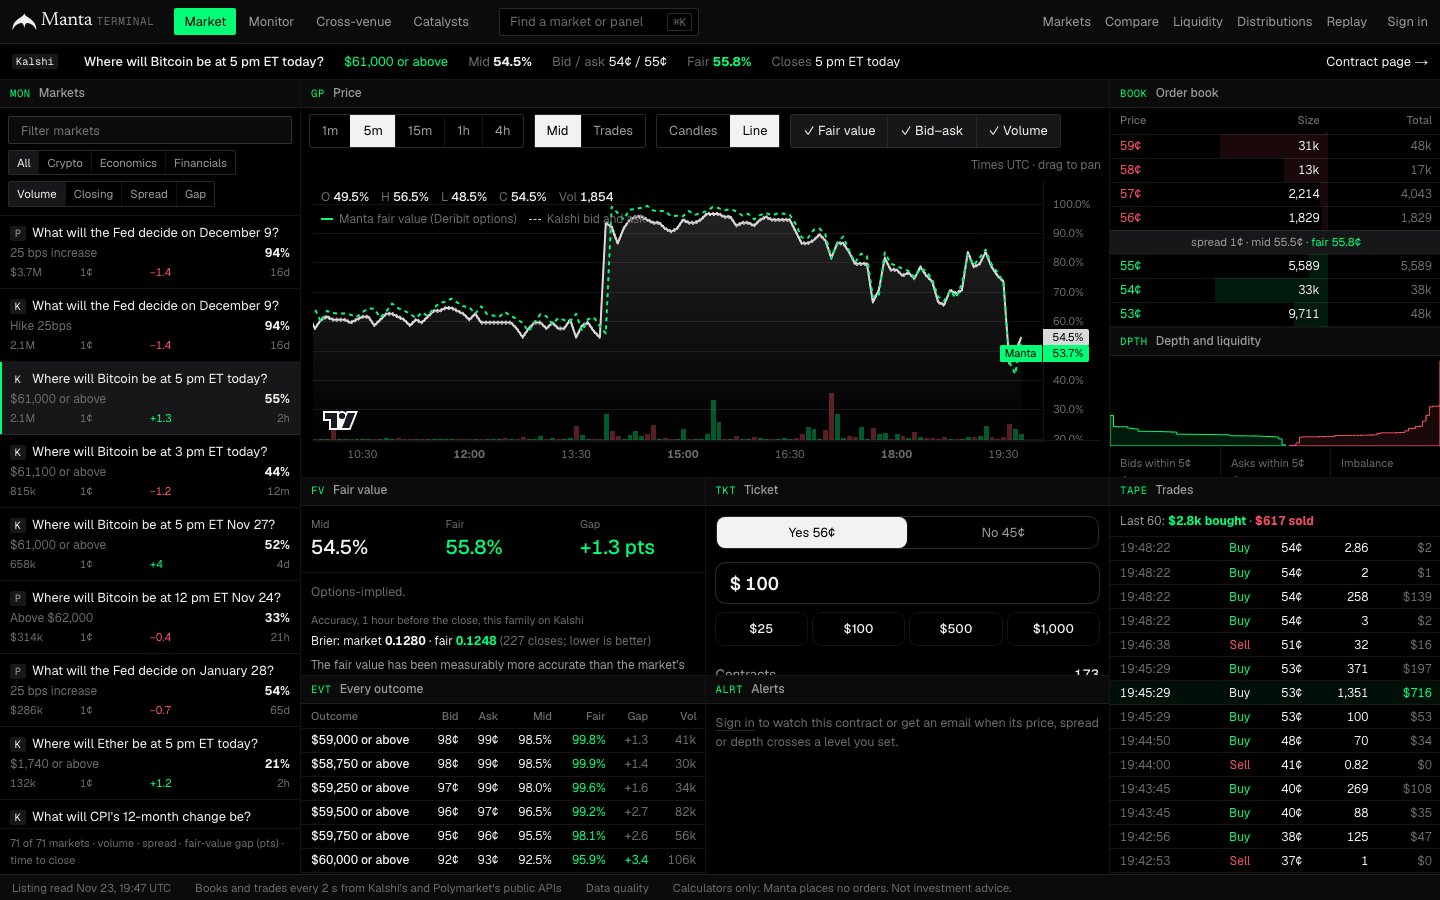
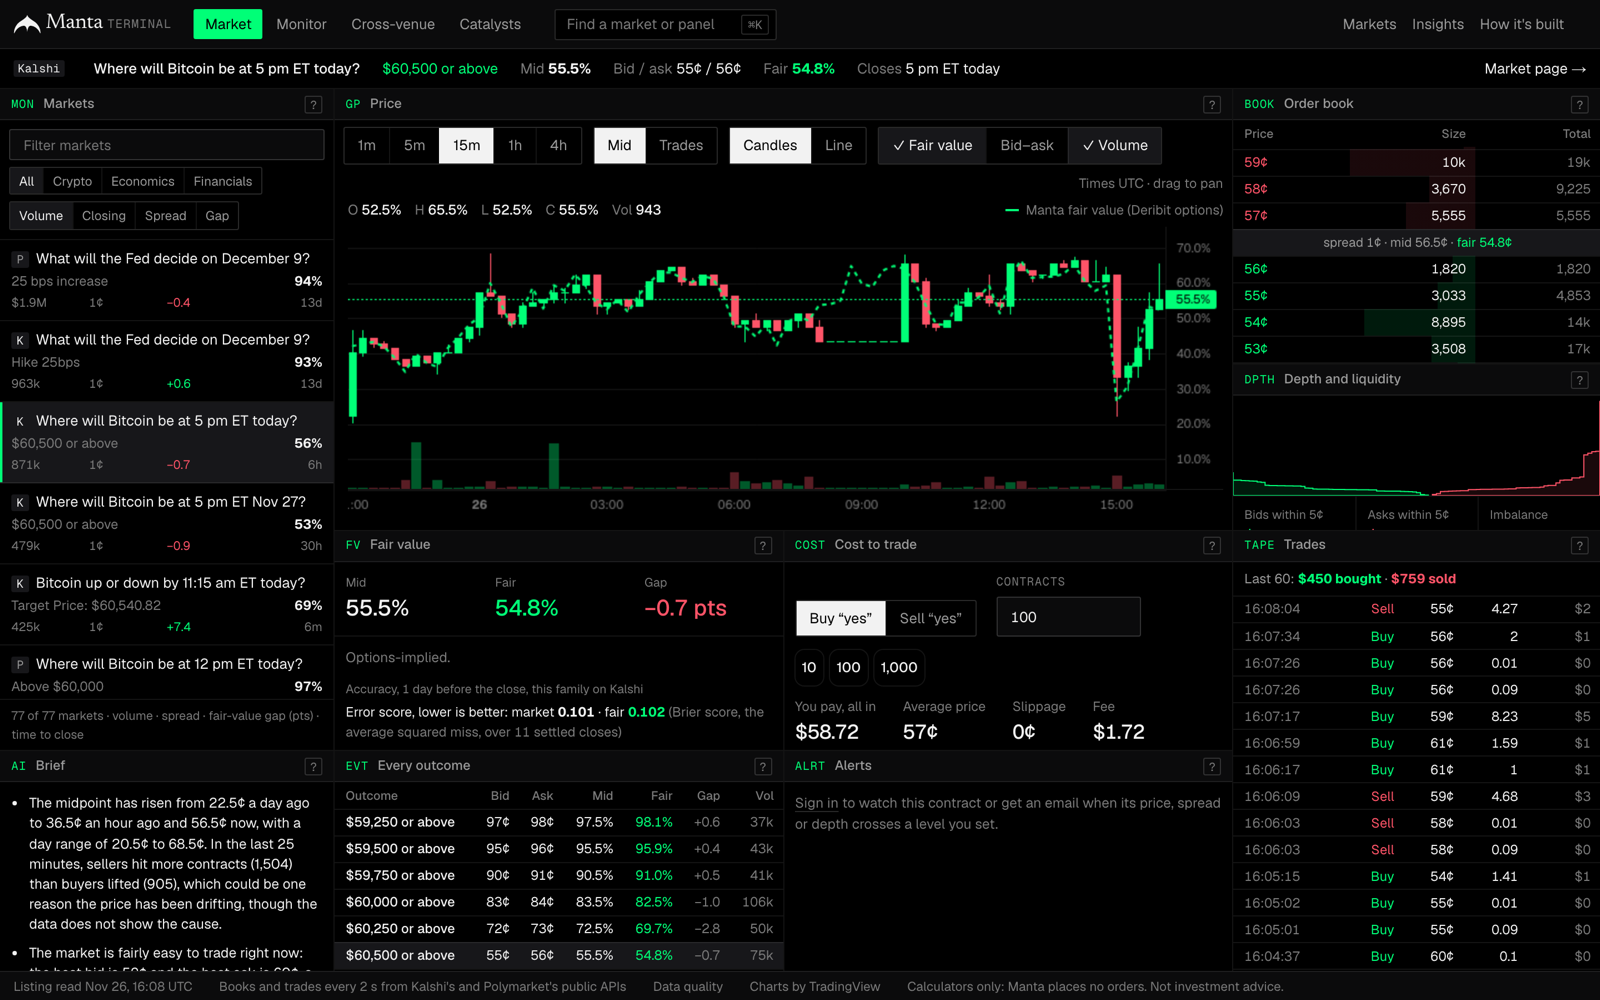
README: the six-page site, new screenshots, measured numbers and what worked and what did not; Markets shows 397k, not 397.0k

diff --git a/site/app/(site)/markets/page.tsx b/site/app/(site)/markets/page.tsx
@@ -155,9 +155,11 @@ async function Markets({ searchParams }: { searchParams: Promise<Params> }) {
 /** Cents with at most one decimal: 0.42 → "42¢", 0.918 → "91.8¢". */
 const cents = (p: number | null) => (p === null ? "–" : `${Math.round(p * 1000) / 10}¢`);
 
-/** 1,234 → "1.2k", 2,500,000 → "2.5M". */
-const short = (n: number) =>
-  n >= 1e6 ? `${(n / 1e6).toFixed(1)}M` : n >= 1e3 ? `${(n / 1e3).toFixed(1)}k` : String(Math.round(n));
+/** 1,234 → "1.2k", 25,000 → "25k", 397,040 → "397k", 2,500,000 → "2.5M". */
+const short = (n: number) => {
+  const [v, unit] = n >= 999_500 ? [n / 1e6, "M"] : n >= 999.5 ? [n / 1e3, "k"] : [n, ""];
+  return `${v >= 100 || unit === "" ? Math.round(v) : Number(v.toFixed(1))}${unit}`;
+};
 
 /** Fair value minus the midpoint, in cents: positive when fair value is above it. None for
  * one-venue consensus, which is fitted to the very quotes it would be compared with. */

diff --git a/README.md b/README.md
@@ -23,41 +23,64 @@
 </p>
 
 Manta covers the crypto, economics and financial contracts on Kalshi and Polymarket (never sports)
-and gives you the tools to work with them: a screener, live order books and trades, the same
-question compared across venues, what a trade really costs after fees, implied distributions,
-history and replay, and alerts.
+and gives you the tools to work with them: live order books and trades, charts from Manta's own
+recordings, what a trade really costs after fees, the same question compared across venues, and
+alerts. It is read-only: Manta places no orders.
 
 <p align="center">
-  <a href="https://mantamarkets.com/terminal"><img src="docs/images/terminal.png" alt="The Manta terminal: market monitor, price chart, order book, depth, trade ticket and trade tape for one Kalshi Bitcoin contract" width="100%"></a>
+  <a href="https://mantamarkets.com/terminal"><img src="docs/images/terminal.png" alt="The Manta terminal: market list, price chart with fair value, order book, depth, cost to trade, trades and every outcome for one Kalshi Bitcoin question" width="100%"></a>
 </p>
 
 **Built on [NautilusTrader](https://github.com/nautechsystems/nautilus_trader)** (LGPL-3.0), used
 as an installed library for the history catalog and backtesting. Manta's own code is the recorder,
 the pricing and analytics, the site and the measurement.
 
-## What it does
+## The site
 
-- **Terminal** (`/terminal`): market monitor, chart, order book and depth, trade tape and a trade
-  ticket in preset layouts, with a ⌘K command bar.
-- **Screener and event pages** (`/screener`, `/m/<venue>/<event>`): every covered contract,
-  filterable; each event with its order books, candles, trades and plain-English settlement rules.
-- **Compare** (`/compare`): the same question on Kalshi and Polymarket side by side, and where the
-  prices cross after both venues' fees.
-- **Cost to trade** (on contract pages): the average price, slippage and fee of buying or selling
-  N contracts, walked through the live book. **Liquidity** (`/liquidity`): depth and spreads over
-  time.
-- **Distributions** (`/distributions`): each ladder of strikes read as the market's probability
-  distribution and term structure.
-- **Fair value**: a price per contract from Deribit's options (Bitcoin, Ether) or the venues' own
-  books, always labelled with its method; its track record is on the accuracy page (`/stats`).
-- **Replay** (`/replay`): past closes minute by minute, from Manta's own recordings (Kalshi does
-  not publish historical order books).
-- **Data quality** (`/quality`): what the recorder captured, per venue, and every gap.
-- **Accounts**: watchlists and email alerts.
+- **Markets** (`/markets`): every open question, busiest first; each opens to its outcomes with
+  price, spread, size, volume and the gap to fair value.
+- **Market page** (`/m/<venue>/<event>`): one question's chart, order book, depth, trades, cost to
+  trade, fair value, every outcome and a short written brief.
+- **Terminal** (`/terminal`): the same panels in one live workspace, Kalshi books and trades
+  streamed from the recorder, with a ⌘K command bar.
+- **Insights** (`/insights`): when trading is cheapest, which price bands the market gets wrong,
+  and whether crossing between venues pays after fees.
+- **How it's built** (`/how-its-built`): the system, its measured numbers and every recording gap.
+- **Accounts**: watchlists, email alerts and an API of Manta's analytics (`/docs/api`).
 
-| Screener | Distributions |
+| Markets | Market page |
 |---|---|
-| <a href="https://mantamarkets.com/screener"><img src="docs/images/screener.png" alt="Screener: every covered contract with chance, bid, ask, fair value, spread, volume and time to close"></a> | <a href="https://mantamarkets.com/distributions"><img src="docs/images/distributions.png" alt="Distributions: a Bitcoin strike ladder read as the market's probability distribution, with median and implied volatility"></a> |
+| <a href="https://mantamarkets.com/markets"><img src="docs/images/markets.png" alt="Markets: open questions busiest first, one opened to its five outcomes with price, spread, size, volume and gap to fair value"></a> | <a href="https://mantamarkets.com/markets"><img src="docs/images/market.png" alt="Market page: a Bitcoin question's chance, price chart with fair value, cost to trade 100 contracts and fair value with its accuracy"></a> |
+
+## Numbers
+
+Measured, with their dates. The live figures are on [How it's built](https://mantamarkets.com/how-its-built).
+
+- **3.54 billion** venue messages recorded from 2026-11-12 to 2026-11-26, from six venues.
+- **Coverage 99.48% to 99.997%** per venue over that time (the share of time not inside a
+  recording gap); Deribit is the lowest.
+- **0 book mismatches** in 5.6 million rebuilt order-book updates, checked against the venue
+  (2026-11-13).
+- **93 ms** median from a Kalshi message reaching the recorder to the terminal receiving it
+  (2026-11-23).
+- **187 tests**: 66 Go, 57 Python, 64 site (2026-11-26).
+
+## What worked and what did not
+
+- Worked: the recorder. It has run since 2026-11-12, every gap is logged and shown, and it is the
+  only source of Kalshi order-book history (Kalshi does not publish one). Charts, replay and the
+  terminal's live stream all come from it.
+- Did not: fair value as an edge. Priced from Deribit's options, it is **no more accurate than
+  Kalshi's own midpoint**: Brier score (average squared miss, lower is better) 0.1322 vs 0.1297
+  five minutes before the close, 0.0989 vs 0.0967 one day before. So the site shows it as a
+  second opinion with its record, not a signal.
+- Did not: cross-venue arbitrage. In a snapshot on 2026-11-26, 9 of 71 questions listed on both
+  Kalshi and Polymarket still crossed after both venues' fees, typically by 0.29¢ a contract, and
+  all of them together were worth about $6 at the sizes on offer.
+- Shelved: a Kalshi market maker (paper trading only), planned but not built.
+- A mistake worth recording: the market brief first ran on a large model with thinking, cached
+  for 5 minutes, and cost $22 in one day. It now runs on a small model, cached 30 minutes and
+  capped per day.
 
 ## How it's built
 
@@ -66,8 +89,10 @@ venues (Kalshi, Polymarket, Deribit, Coinbase, Kraken, Binance)
    │  WebSocket / REST, read-only
    ▼
 recorder (Go, on a VM) ──► raw hourly gzip JSONL ──► nightly archive (Storage Box)
-   │                              │
-   │ relay / replay servers       └─► backtest/ (Python + NautilusTrader Parquet catalog)
+   │        │                     │
+   │        │ replay files        └─► backtest/ (Python + NautilusTrader Parquet catalog)
+   │        └─► 1-minute candles for the charts
+   │ live relay (Kalshi books and trades) ──► terminal
    ▼
 pricing jobs (Python, every minute) ──► Postgres (Supabase, schema `manta`)
                                               │  read-only login
